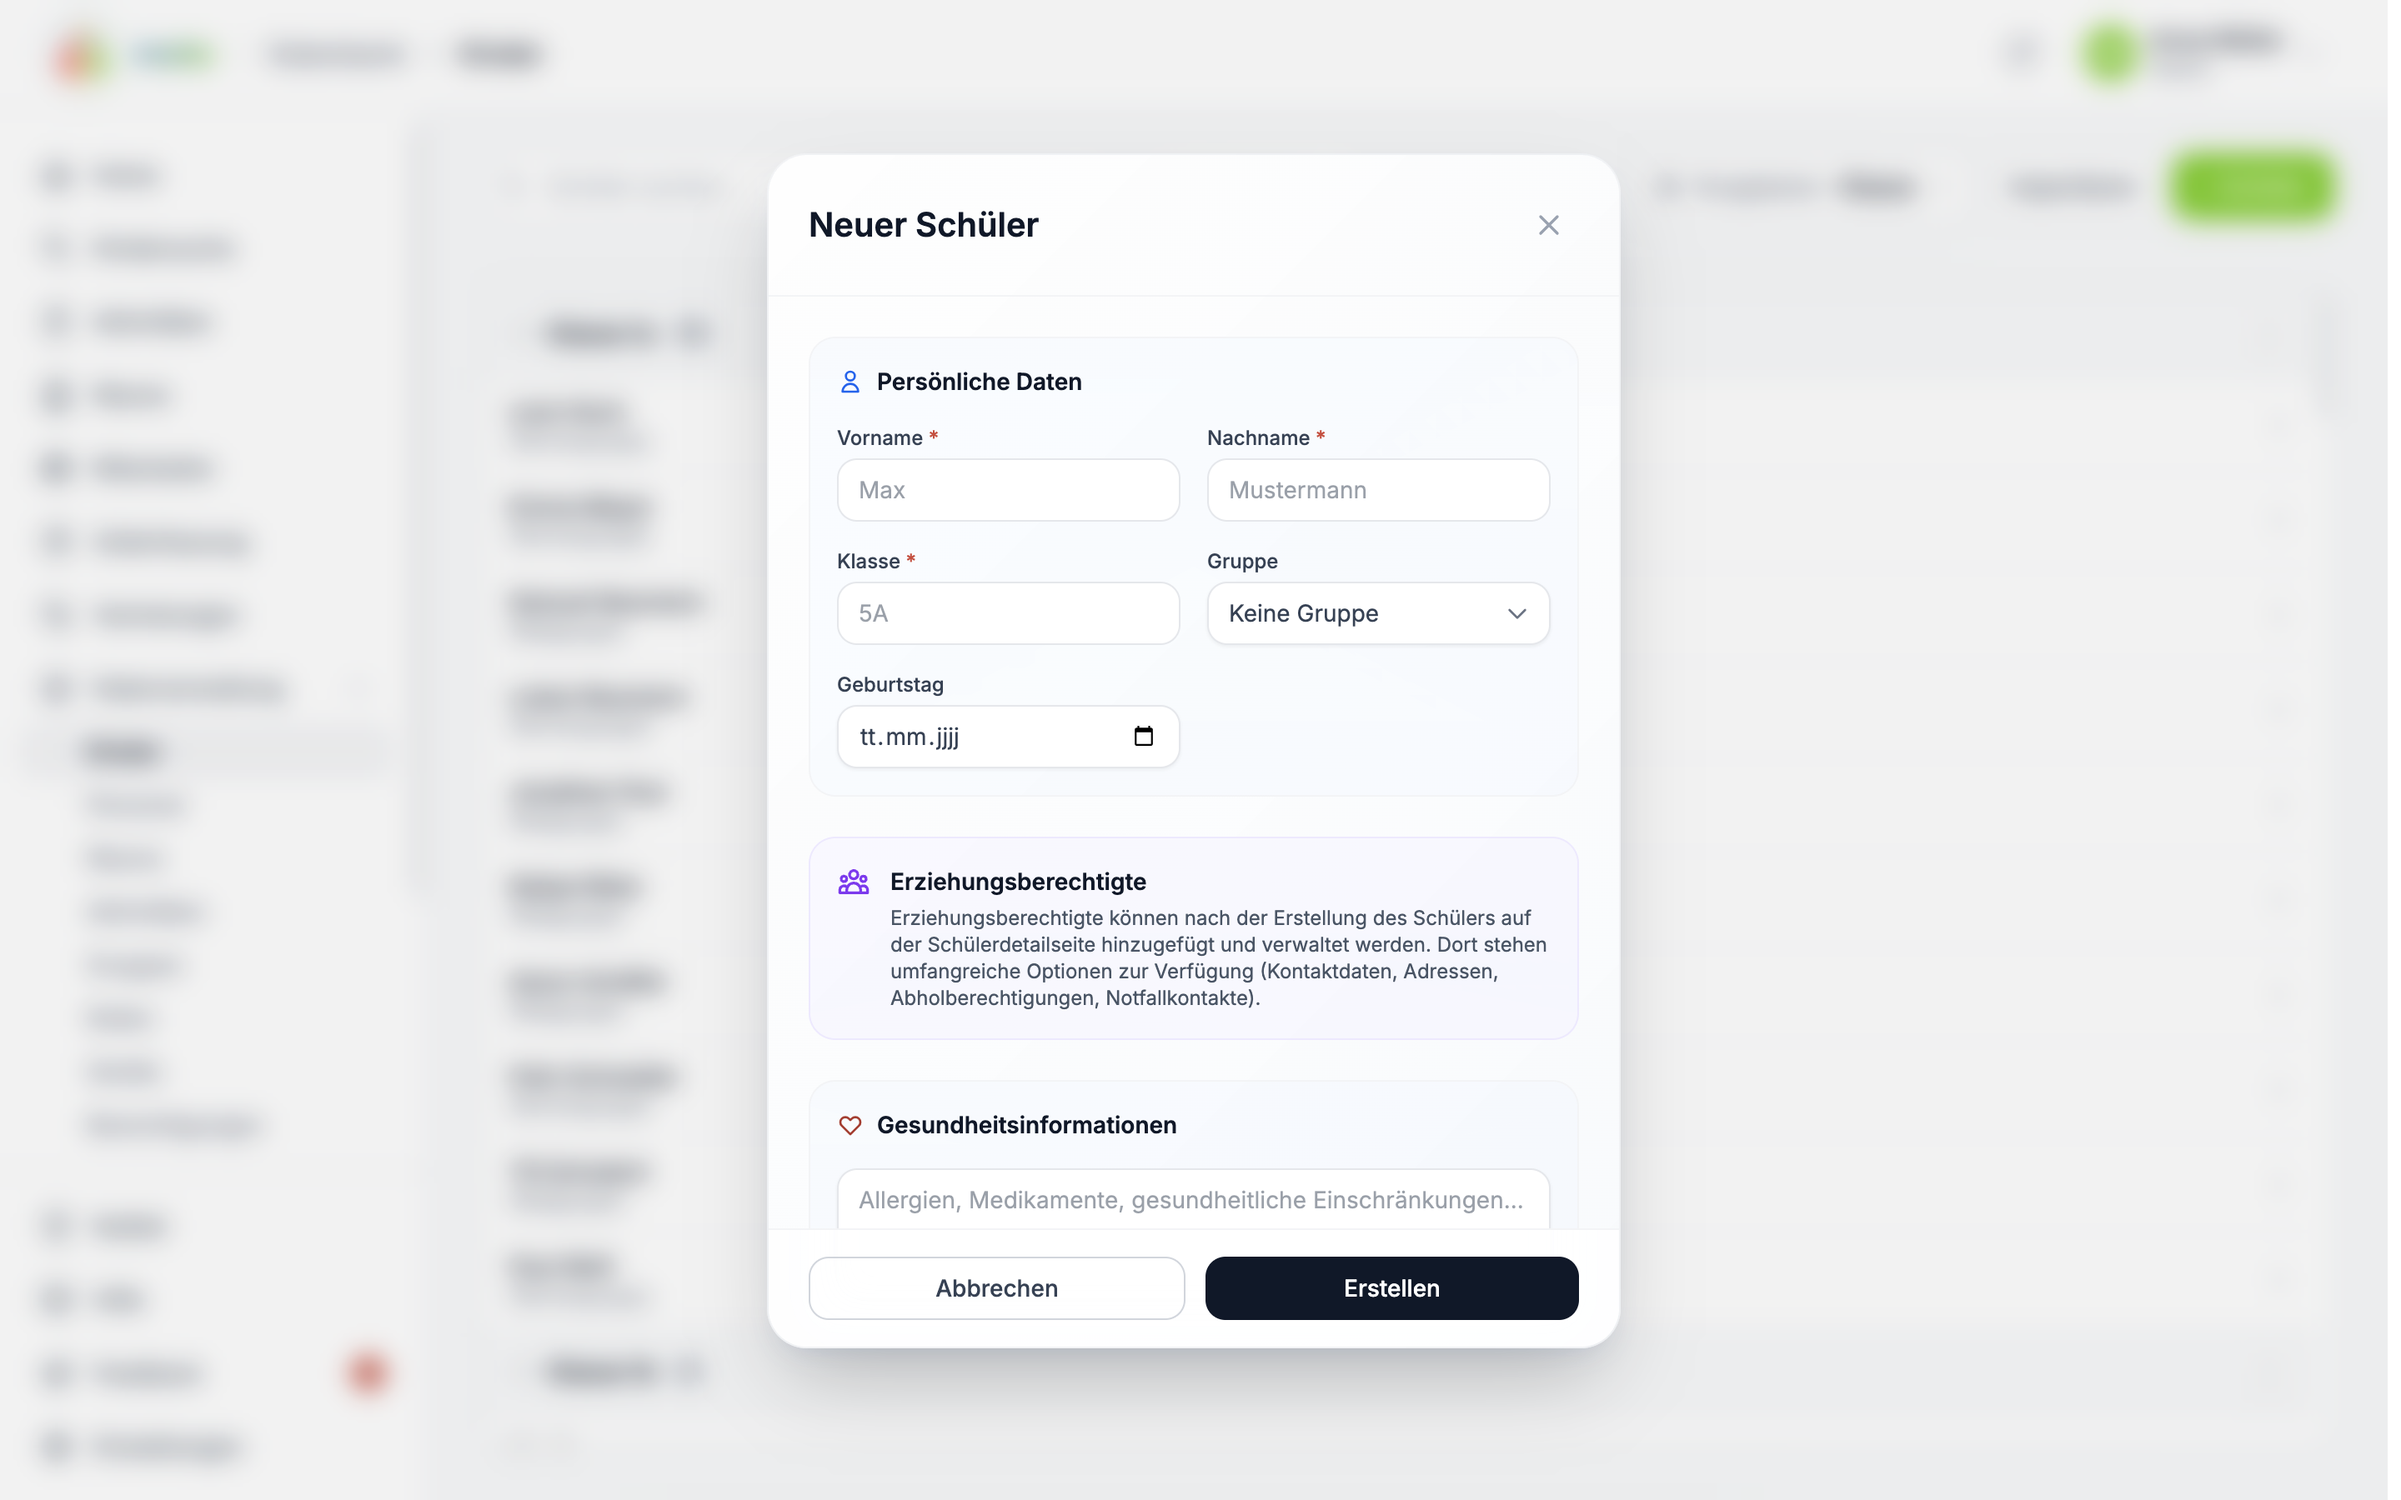
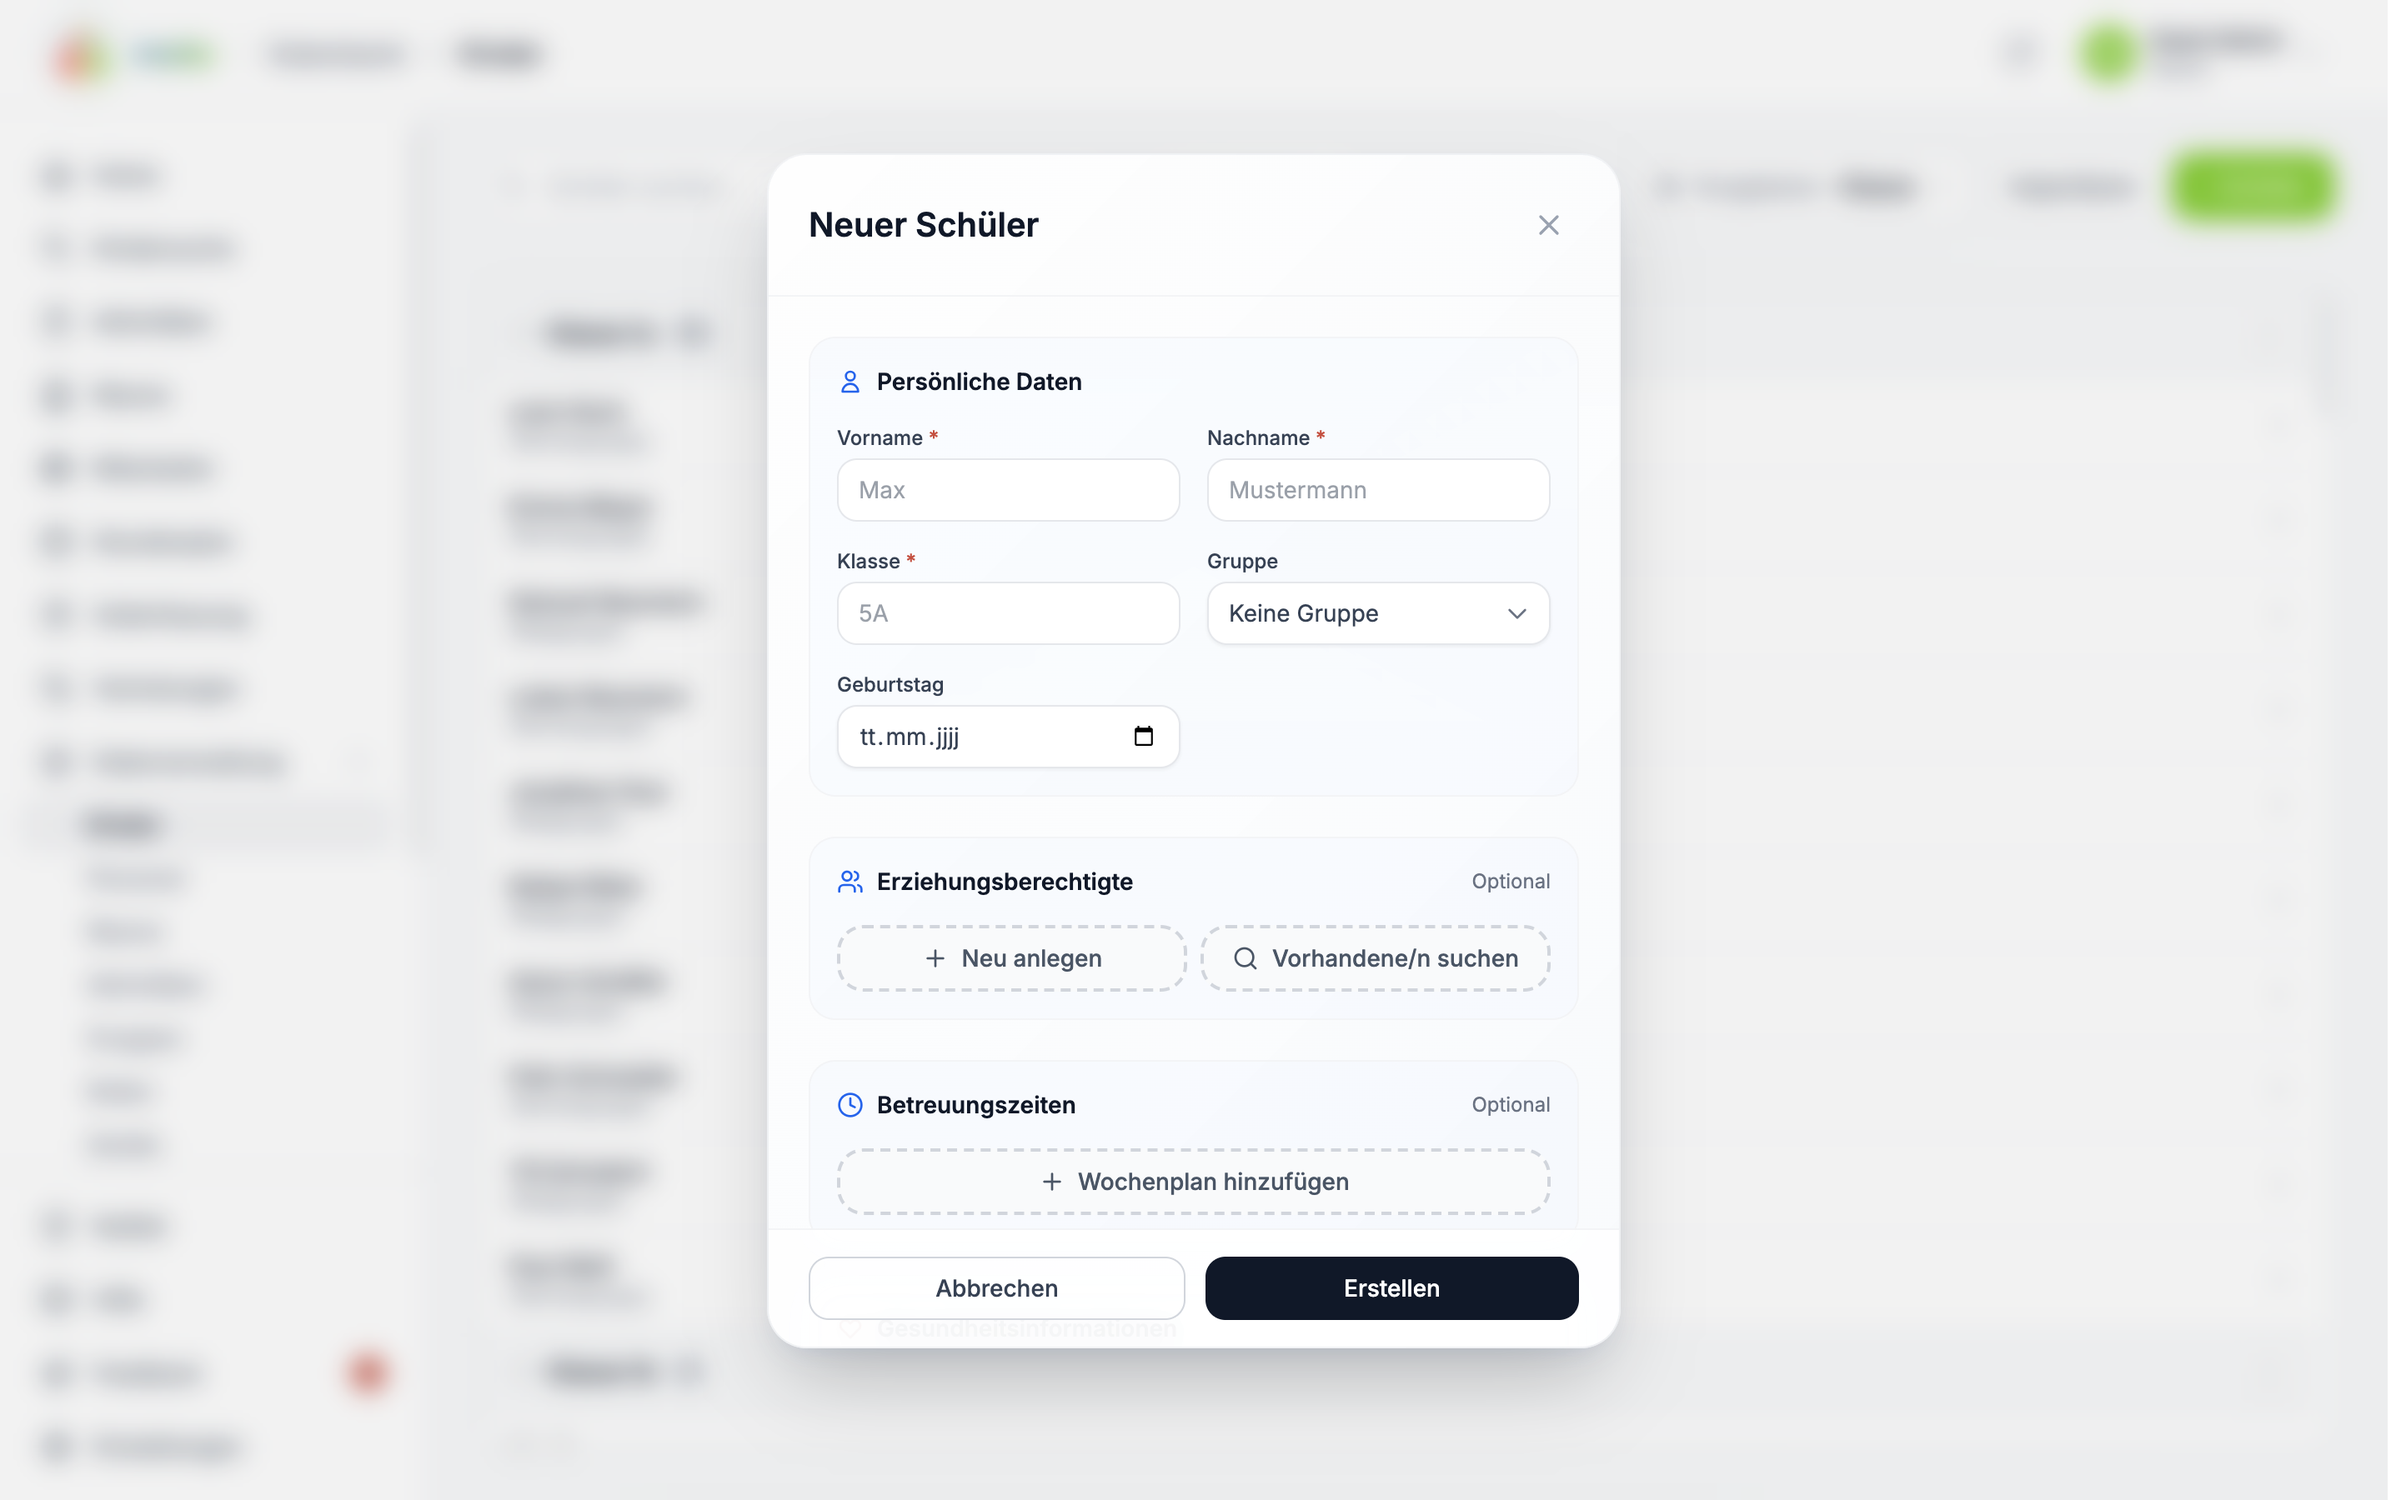
docs(help): add child detail-view guide and reflect in-create guardians/care times
- Ersteinrichtung: 'Kind manuell anlegen' now covers adding Erziehungsberechtigte
  and Betreuungszeiten directly in the create modal; refresh kind-manuell-anlegen.png
- features guide: new 'Kinderdetailansicht' section (status header, Krank melden/
  Entschuldigen, the four tabs) with kinderdetailansicht.png
- render guide summaries with inline code formatting so backticks show as code
- drop em dashes from the create-flow copy

diff --git a/frontend/src/components/help/guide-data.ts b/frontend/src/components/help/guide-data.ts
@@ -243,7 +243,7 @@ export const setupChapters: readonly GuideChapter[] = [
     id: "kinder-und-zeiten",
     title: "Kinder und Betreuungszeiten",
     description:
-      "Kinder kommen automatisch ins System, wenn Familien die moto-Anmeldung nutzen. Ohne Online-Anmeldung legen Sie Kinder als Liste oder einzeln an und pflegen danach Ankunfts- und Abholzeiten.",
+      "Kinder kommen automatisch ins System, wenn Familien die moto-Anmeldung nutzen. Ohne Online-Anmeldung legen Sie Kinder als Liste oder einzeln an. Erziehungsberechtigte und Betreuungszeiten erfassen Sie beim einzelnen Anlegen direkt mit.",
     icon: Users,
     tone: "orange",
     steps: [
@@ -275,24 +275,26 @@ export const setupChapters: readonly GuideChapter[] = [
         id: "kind-manuell-anlegen",
         title: "Einzelnes Kind manuell anlegen",
         summary:
-          "Der Standardweg ohne Importliste, auch um einzelne Kinder jederzeit nachzutragen.",
+          "Der Standardweg ohne Importliste, auch um einzelne Kinder jederzeit nachzutragen. Erziehungsberechtigte und Betreuungszeiten erfassen Sie optional direkt im selben Formular.",
         steps: [
           "`Datenverwaltung` öffnen und `Kinder` wählen.",
           "Neues Kind anlegen.",
           "`Vorname`, `Nachname`, `Klasse` und `OGS Gruppe` eintragen.",
+          "Optional im Abschnitt `Erziehungsberechtigte` mit `Neu anlegen` eine Bezugsperson erfassen oder mit `Vorhandene/n suchen` eine bereits angelegte Person verknüpfen.",
+          "Optional im Abschnitt `Betreuungszeiten` auf `Wochenplan hinzufügen` klicken und die regelmäßigen `Ankunft`- und `Abholung`-Zeiten je Wochentag eintragen.",
           "`Datenschutzeinwilligung erteilt` nur aktivieren, wenn die Einwilligung vorliegt.",
-          "Speichern und das Kind in der `Kindersuche` öffnen.",
-          "Auf der Schülerdetailseite `Erziehungsberechtigte` und Abholinformationen ergänzen.",
+          "Auf `Erstellen` klicken. Erziehungsberechtigte und Betreuungszeiten werden zusammen mit dem Kind gespeichert.",
+          "Das Kind anschließend in der `Kindersuche` prüfen; weitere Angaben ergänzen Sie jederzeit auf der Schülerdetailseite.",
         ],
         screenshot:
-          "Kinderformular mit Stammdaten, Gruppe und Hinweis zu Erziehungsberechtigten.",
+          "Kinderformular mit Stammdaten sowie den Abschnitten Erziehungsberechtigte und Betreuungszeiten.",
         image: "/help/screens/kind-manuell-anlegen.png",
       },
       {
         id: "betreuungszeiten-pflegen",
         title: "Ankunfts- und Abholzeiten pflegen",
         summary:
-          "Für jedes Kind die wöchentlich wiederkehrenden Ankunfts- und Abholzeiten eintragen.",
+          "Für importierte Kinder oder zum späteren Ändern: die wöchentlich wiederkehrenden Ankunfts- und Abholzeiten auf der Schülerdetailseite eintragen und einzelne Abweichungen ergänzen. Beim einzelnen Anlegen ist das bereits im Formular möglich.",
         steps: [
           "`Datenverwaltung` öffnen und `Kinder` wählen.",
           "Das Kind in der Liste auswählen.",
@@ -364,6 +366,30 @@ export const appChapters: readonly GuideChapter[] = [
         ],
         screenshot: "Kindersuche mit Suchfeld, Filtern und Status-Badges.",
         image: "/help/screens/kindersuche.png",
+      },
+      {
+        id: "kinderdetailansicht",
+        title: "Kinderdetailansicht",
+        icon: FileText,
+        summary:
+          "In der `Kindersuche` auf die Karte eines Kindes klicken öffnet seine Detailansicht. Der Kopfbereich zeigt Name, Gruppe und den aktuellen Aufenthalt mit Uhrzeit sowie die heutige Ankunft und Abholung; darunter liegen vier Tabs.",
+        steps: [
+          "In der `Kindersuche` auf die Karte des Kindes klicken.",
+          "Im Kopfbereich den aktuellen Aufenthalt (z. B. `OGS-Raum 1 seit 12:00 Uhr`) sowie `Heutige Ankunft` und `Heutige Abholung` ablesen.",
+          "Über `Krank melden` das Kind als krank und über `Entschuldigen` als entschuldigt markieren.",
+          "Tab `Stammdaten`: Name, Klasse, Gruppe, Geburtstag, Gesundheitsinformationen, Notizen, Foto und Datenschutz ansehen und über `Bearbeiten` ändern.",
+          "Tab `Erziehungsberechtigte`: Bezugspersonen mit Kontaktdaten, Abholberechtigung und Notfallkontakten pflegen.",
+          "Tab `Betreuungszeiten`: die wöchentlichen Ankunfts- und Abholzeiten je Wochentag verwalten.",
+          "Tab `Historie`: die Anwesenheits-Historie der letzten Tage mit Raum-Details nachvollziehen.",
+        ],
+        callout: {
+          title: "Status immer im Blick",
+          body: "Der Kopfbereich zeigt unabhängig vom geöffneten Tab, wo sich das Kind gerade befindet und seit wann.",
+          tone: "blue",
+        },
+        screenshot:
+          "Kinderdetailansicht mit Statuskopf, den Aktionen Krank melden und Entschuldigen sowie den Tabs Stammdaten, Erziehungsberechtigte, Betreuungszeiten und Historie.",
+        image: "/help/screens/kinderdetailansicht.png",
       },
       {
         id: "meine-gruppen",

diff --git a/frontend/src/components/help/guide-components.tsx b/frontend/src/components/help/guide-components.tsx
@@ -423,7 +423,9 @@ function StepCard({
           <h3 className="text-lg font-semibold tracking-normal text-gray-950 sm:text-xl">
             {item.title}
           </h3>
-          <p className="mt-1 text-sm leading-6 text-gray-600">{item.summary}</p>
+          <p className="mt-1 text-sm leading-6 text-gray-600">
+            <InlineText text={item.summary} />
+          </p>
 
           {item.steps ? (
             <ol className="mt-4 space-y-2.5">
